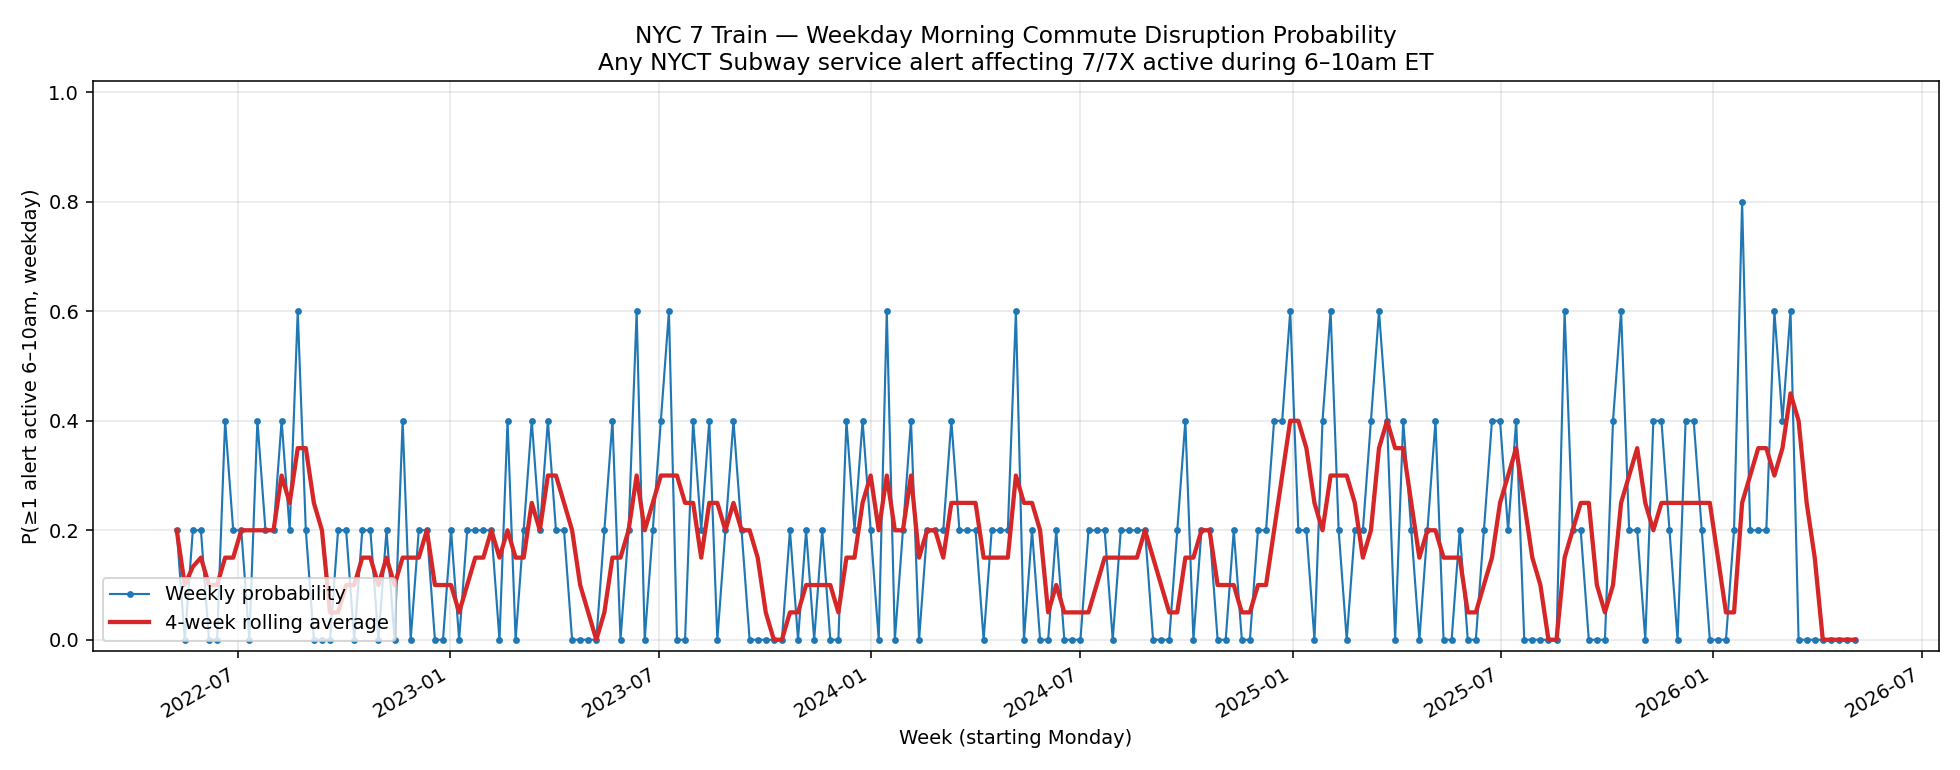
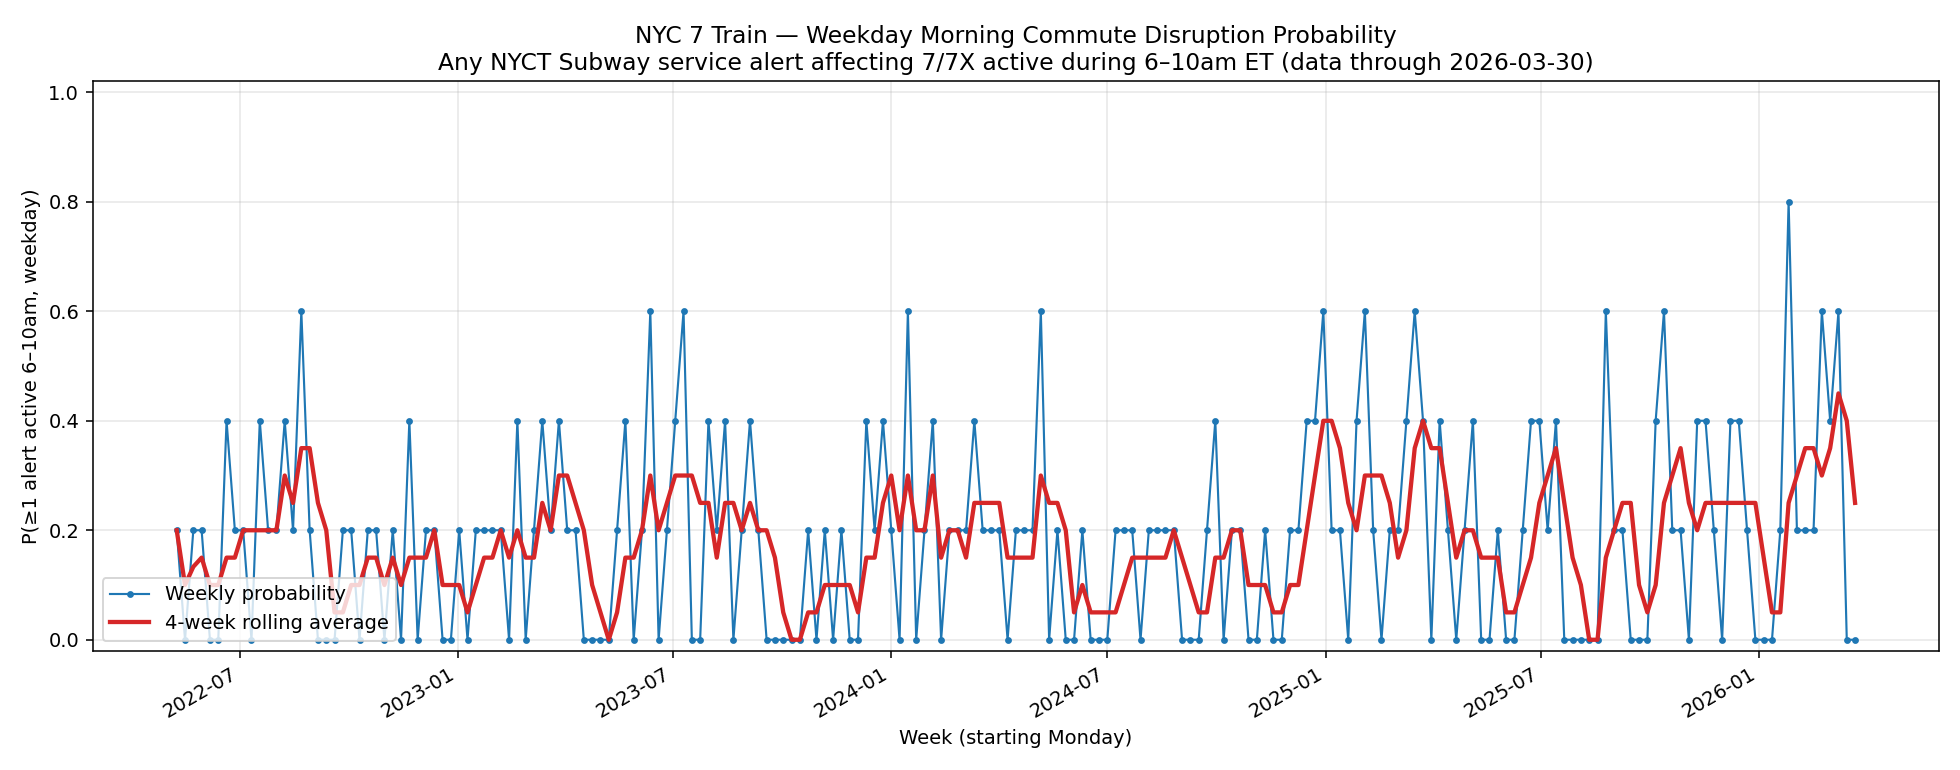
Trim chart end to last full Mon-Fri week with data
The MTA Service Alerts dataset has a ~6-week publishing lag. Previously the
chart extended to today, making the trailing weeks look like zero-disruption
weeks when in fact no alert data had been published yet. Now we fetch the
latest NYCT Subway alert date from the API and trim to the last Friday whose
full Mon-Fri week is covered, and note the data-through date in the title.

https://claude.ai/code/session_01AwtQ9VvMPeomReQsLwxK5X

diff --git a/analyze.py b/analyze.py
@@ -18,17 +18,40 @@ import pandas as pd
 import requests
 
 DATASET_URL = "https://data.ny.gov/resource/7kct-peq7.csv"
+DATASET_JSON = "https://data.ny.gov/resource/7kct-peq7.json"
 START = date(2022, 5, 9)          # Monday, ~4 years before 2026-05-13
-END = date(2026, 5, 11)           # Monday on/before today; last full reportable week boundary
 
 MORNING_START = time(6, 0)
 MORNING_END = time(10, 0)         # exclusive
 
 
-def fetch_alerts() -> pd.DataFrame:
-    """Fetch all NYCT Subway alerts mentioning the 7 line since START."""
+def fetch_data_end() -> date:
+    """Latest NYCT Subway alert date in the dataset (data has a publishing lag)."""
+    r = requests.get(
+        DATASET_JSON,
+        params={"$select": "max(date) as m", "agency": "NYCT Subway"},
+        timeout=60,
+    )
+    r.raise_for_status()
+    return pd.to_datetime(r.json()[0]["m"]).date()
+
+
+def last_full_friday(through: date) -> date:
+    """Friday of the last Mon-Fri week fully covered by `through`."""
+    # Need data through Friday of the target week
+    wd = through.weekday()  # Mon=0 ... Sun=6
+    if wd >= 4:  # Fri (4), Sat (5), Sun (6) — this week's Friday is covered
+        return through - timedelta(days=wd - 4)
+    # Mon (0)..Thu (3): only previous week is fully covered
+    return through - timedelta(days=wd + 3)
+
+
+def fetch_alerts(end: date) -> pd.DataFrame:
+    """Fetch all NYCT Subway alerts mentioning the 7 line in [START, end]."""
     where = (
-        f"affected like '%7%' AND date >= '{START.isoformat()}T00:00:00'"
+        f"affected like '%7%' "
+        f"AND date >= '{START.isoformat()}T00:00:00' "
+        f"AND date < '{(end + timedelta(days=1)).isoformat()}T00:00:00'"
     )
     params = {
         "$select": "alert_id,event_id,update_number,date,status_label,affected",
@@ -59,9 +82,9 @@ def event_windows(df: pd.DataFrame) -> pd.DataFrame:
     return grp
 
 
-def disrupted_weekdays(events: pd.DataFrame) -> pd.DataFrame:
-    """For every weekday in [START, END], compute whether any event overlapped 6-10am ET."""
-    weekdays = pd.bdate_range(START, END).date  # Mon-Fri only, federal holidays NOT excluded here
+def disrupted_weekdays(events: pd.DataFrame, end: date) -> pd.DataFrame:
+    """For every weekday in [START, end], compute whether any event overlapped 6-10am ET."""
+    weekdays = pd.bdate_range(START, end).date  # Mon-Fri only, federal holidays NOT excluded here
     rows = []
     # Pre-build morning intervals as tuples of pd.Timestamp
     morning = []
@@ -107,7 +130,7 @@ def weekly_probability(daily: pd.DataFrame) -> pd.DataFrame:
     return weekly
 
 
-def plot(weekly: pd.DataFrame, out_path: str) -> None:
+def plot(weekly: pd.DataFrame, data_end: date, out_path: str) -> None:
     fig, ax = plt.subplots(figsize=(14, 5.5))
     ax.plot(
         weekly["week_start"], weekly["probability"],
@@ -124,7 +147,8 @@ def plot(weekly: pd.DataFrame, out_path: str) -> None:
     ax.set_xlabel("Week (starting Monday)")
     ax.set_title(
         "NYC 7 Train — Weekday Morning Commute Disruption Probability\n"
-        "Any NYCT Subway service alert affecting 7/7X active during 6–10am ET",
+        f"Any NYCT Subway service alert affecting 7/7X active during 6–10am ET "
+        f"(data through {data_end:%Y-%m-%d})",
         fontsize=12,
     )
     ax.grid(True, alpha=0.3)
@@ -136,19 +160,22 @@ def plot(weekly: pd.DataFrame, out_path: str) -> None:
 
 
 def main() -> int:
-    print("fetching alerts...", flush=True)
-    df = fetch_alerts()
+    data_end = fetch_data_end()
+    end = last_full_friday(data_end)
+    print(f"dataset latest NYCT Subway alert: {data_end}")
+    print(f"trimming to last full Mon-Fri week ending: {end}")
+    df = fetch_alerts(end)
     print(f"  {len(df):,} alert rows after 7/7X token filter", flush=True)
     events = event_windows(df)
     print(f"  {len(events):,} distinct events", flush=True)
-    daily = disrupted_weekdays(events)
+    daily = disrupted_weekdays(events, end)
     print(f"  {len(daily):,} weekdays scanned; {daily['disrupted'].sum():,} disrupted", flush=True)
     weekly = weekly_probability(daily)
     weekly_out = weekly[["week_start", "disrupted_days", "total_days", "probability"]].copy()
     weekly_out["week_start"] = weekly_out["week_start"].dt.date
     weekly_out.to_csv("weekly_disruption.csv", index=False)
     print(f"wrote weekly_disruption.csv ({len(weekly_out)} weeks)")
-    plot(weekly, "weekly_disruption.png")
+    plot(weekly, data_end, "weekly_disruption.png")
     return 0
 
 
